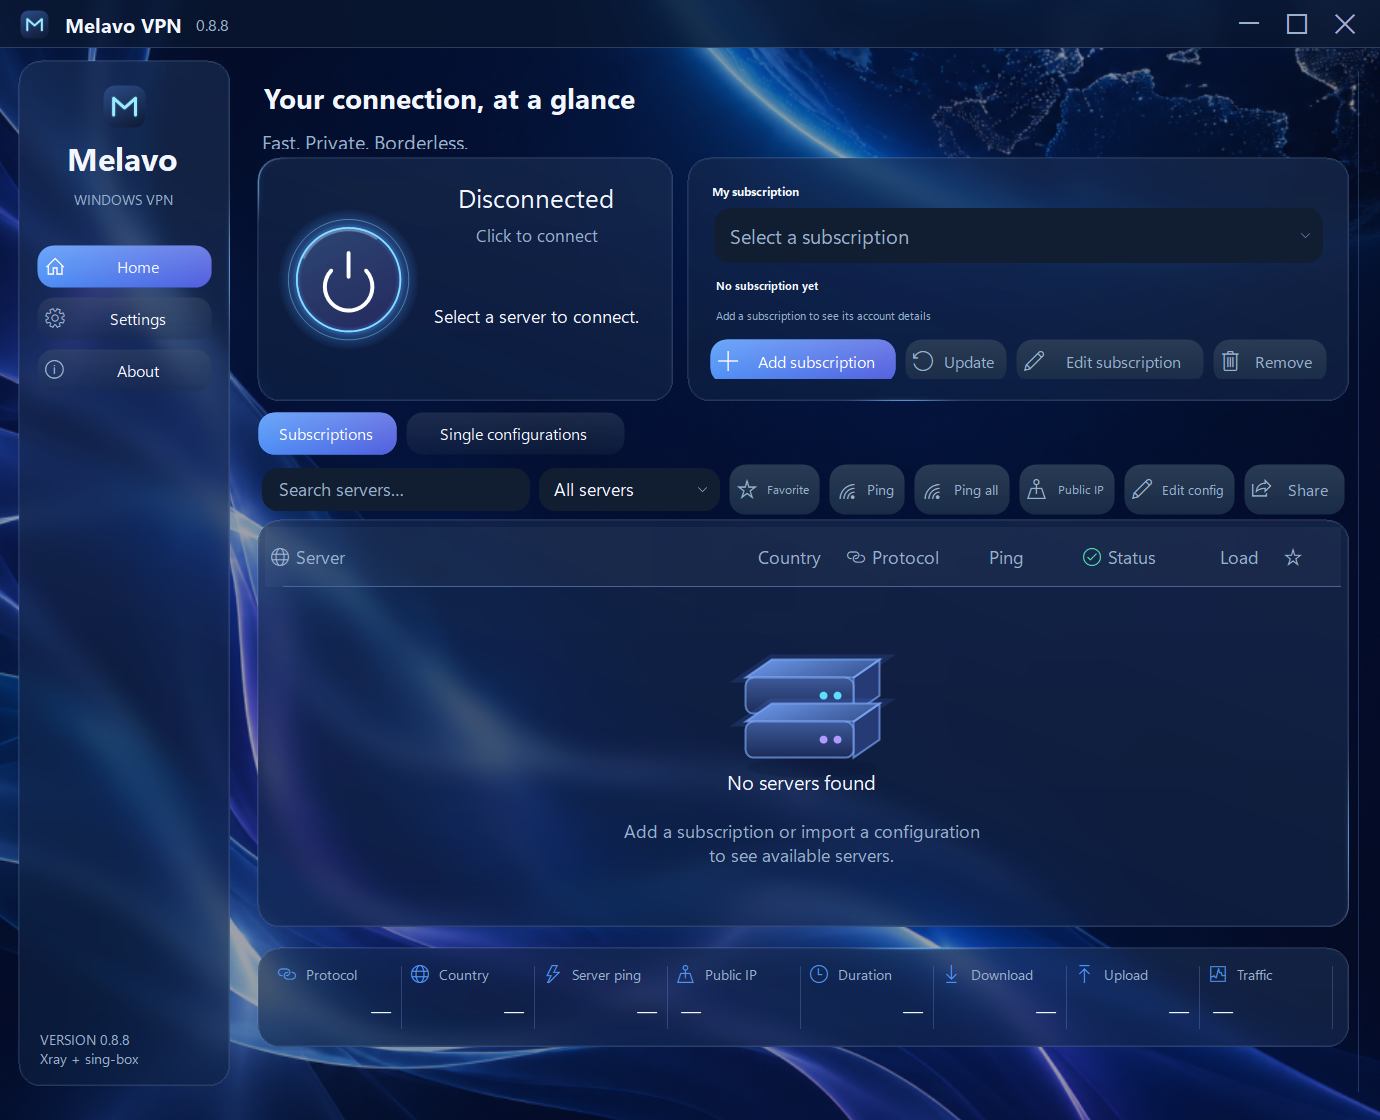
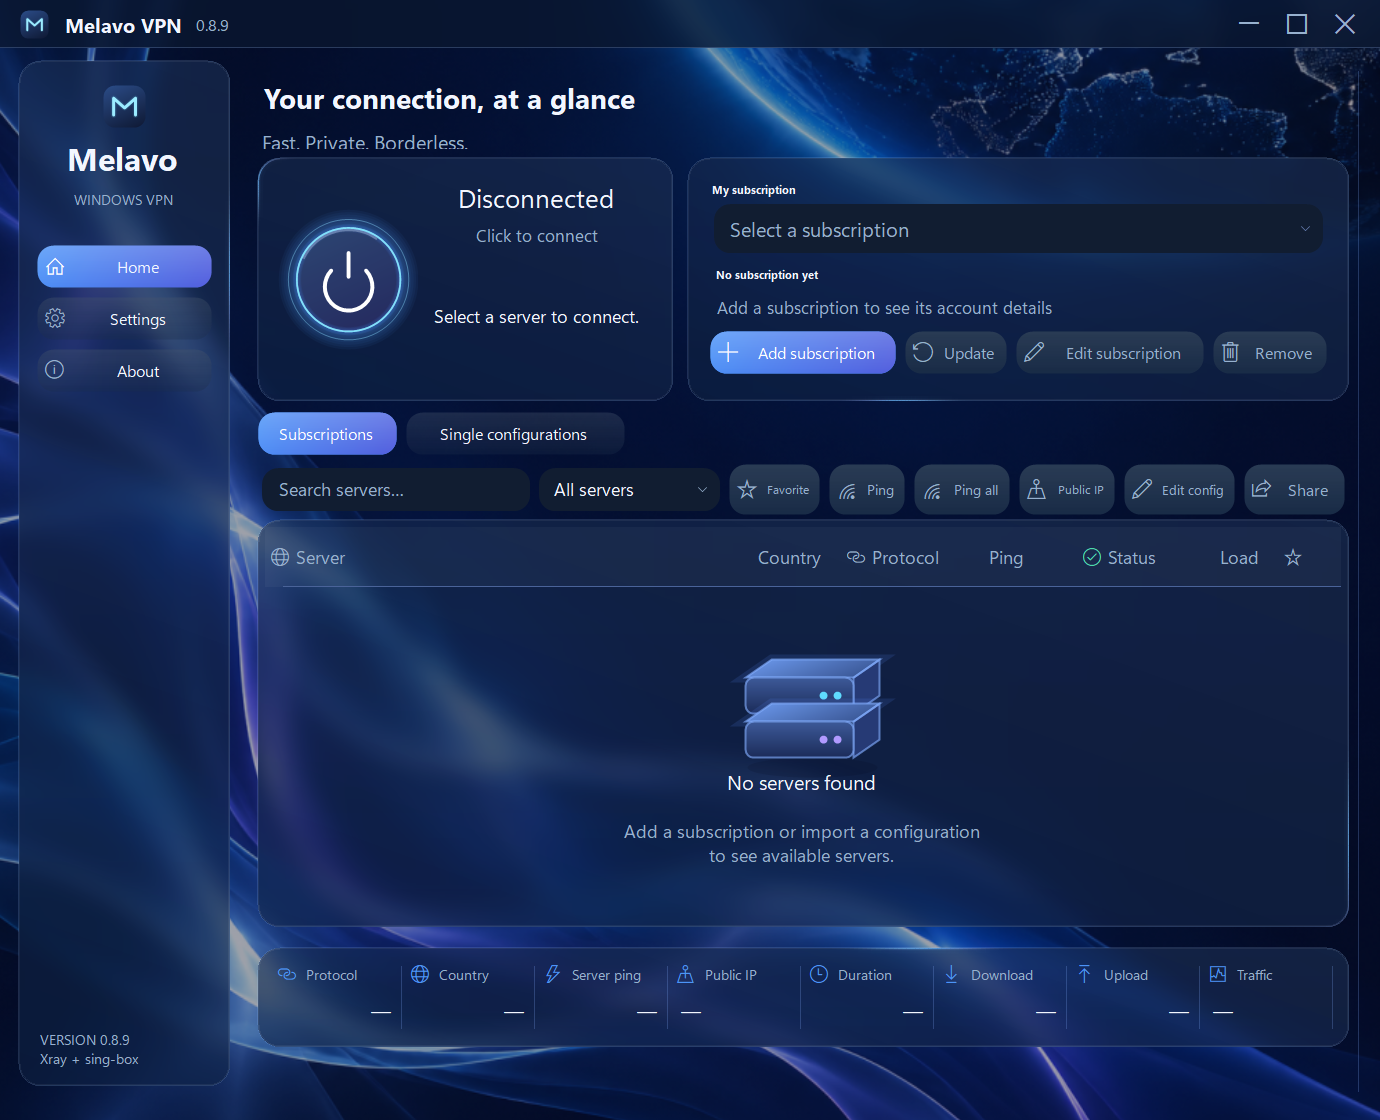
Keep subscription actions within card content bounds

Changed region(s): [[0.4986, 0.1562, 0.9659, 0.3438], [0.7478, 0.9375, 0.779, 0.9688]]

diff --git a/Client.Ui.cs b/Client.Ui.cs
@@ -20,12 +20,12 @@ sealed partial class Client {
  Panel? pageHost;string currentPage="Home";ConnectionState visualState;DateTime? connectedAt;long lastRx,lastTx,totalRx,totalTx;bool sampled,disconnecting;string? activeProfileKey;float animation;DateTime sampleAt;DateTime pageTransition;
  void BuildShell(){
   using(var iconStream=typeof(Client).Assembly.GetManifestResourceStream("MelavoClient.Assets.Melavo.ico")){if(iconStream!=null){Icon=new Icon(iconStream);tray.Icon=Icon;}}
-  Design.Glass=preferences.VisualStyle=="glass";Design.Dark=preferences.Dark;Text="Melavo VPN · 0.8.8"+(SubscriptionStore.Edition=="customer"?" · Customer":"");Font=Design.Font();BackColor=Design.Canvas;ForeColor=Design.Text;RightToLeft=RightToLeft.Yes;Size=new(1380,1120);FormBorderStyle=FormBorderStyle.None;MaximizeBox=true;MinimizeBox=true;StartPosition=FormStartPosition.CenterScreen;
+  Design.Glass=preferences.VisualStyle=="glass";Design.Dark=preferences.Dark;Text="Melavo VPN · 0.8.9"+(SubscriptionStore.Edition=="customer"?" · Customer":"");Font=Design.Font();BackColor=Design.Canvas;ForeColor=Design.Text;RightToLeft=RightToLeft.Yes;Size=new(1380,1120);FormBorderStyle=FormBorderStyle.None;MaximizeBox=true;MinimizeBox=true;StartPosition=FormStartPosition.CenterScreen;
   var shell=new BufferedTable{Dock=DockStyle.Fill,ColumnCount=2,RowCount=1,Padding=new(18,12,18,18),RightToLeft=RightToLeft.No};shell.ColumnStyles.Add(new(SizeType.Percent,100));shell.ColumnStyles.Add(new(SizeType.Absolute,212));Controls.Add(shell);Padding=new(0,48,0,0);titleBar=new WindowTitleBar(this){Dock=DockStyle.None,Bounds=new Rectangle(0,0,ClientSize.Width,48),Anchor=AnchorStyles.Top|AnchorStyles.Left|AnchorStyles.Right};Controls.Add(titleBar);titleBar.BringToFront();
   var sidebar=new Card{RightToLeft=RightToLeft.Yes,Dock=DockStyle.Fill,Padding=new(18,22,18,18),BackColor=Design.Surface};shell.Controls.Add(sidebar,1,0);
   var nav=new BufferedFlow{Dock=DockStyle.Top,AutoSize=true,FlowDirection=FlowDirection.TopDown,WrapContents=false};nav.Controls.Add(new BrandLockup{Margin=new(0,0,0,20)});
   foreach(var item in new[]{("Home","◉  خانه"),("Settings","⚙  تنظیمات"),("About","ⓘ  درباره")}){var button=new ModernButton{Text=item.Item2[3..],IconGlyph=item.Item1 switch{"Home"=>"\uE80F","Servers"=>"\uE774","Subscription"=>"\uE8A5","Statistics"=>"\uE9D9","Settings"=>"\uE713",_=>"\uE946"},Width=176,Height=44,Margin=new(0,8,0,0),AccessibleName=item.Item1,Kind=ButtonKind.Ghost,RightToLeft=RightToLeft.Yes};var key=item.Item1;button.Click+=(_,_)=>Navigate(key);navigation[key]=button;nav.Controls.Add(button);}sidebar.Controls.Add(nav);
-  var foot=Design.Label("VERSION 0.8.8\nXray + sing-box",7,true);foot.Dock=DockStyle.Bottom;foot.Height=46;sidebar.Controls.Add(foot);
+  var foot=Design.Label("VERSION 0.8.9\nXray + sing-box",7,true);foot.Dock=DockStyle.Bottom;foot.Height=46;sidebar.Controls.Add(foot);
   pageHost=new BufferedPanel{RightToLeft=RightToLeft.Yes,Dock=DockStyle.Fill,Padding=new(24,12,10,10)};shell.Controls.Add(pageHost,0,0);
   InitializeServerControls();BuildHome();BuildSettings();BuildAbout();
   var footer=new Panel{Dock=DockStyle.Bottom,Height=40,Padding=new(12,8,12,0)};status.Font=Design.Font(9);status.ForeColor=Design.Muted;footer.Controls.Add(status);pageHost.Controls.Add(footer);footer.BringToFront();
@@ -53,11 +53,11 @@ sealed partial class Client {
   var heading=Design.Label("اتصال امن، با یک انتخاب",12);heading.Dock=DockStyle.Fill;heading.AutoSize=false;heading.TextAlign=ContentAlignment.MiddleLeft;var headingStack=new BufferedTable{Dock=DockStyle.Fill,RowCount=2,Margin=Padding.Empty};headingStack.RowStyles.Add(new(SizeType.Absolute,Math.Max(46,TextRenderer.MeasureText(heading.Text,Design.Font(16,FontStyle.Bold)).Height+10)));headingStack.RowStyles.Add(new(SizeType.Percent,100));heading.Tag=new TextStyle(16,false,FontStyle.Bold);headingStack.Controls.Add(heading,0,0);var tagline=Design.Label("سریع. خصوصی. بدون مرز.",10,true);tagline.Dock=DockStyle.Fill;headingStack.Controls.Add(tagline,0,1);layout.Controls.Add(headingStack,0,0);
   var top=new BufferedTable{Dock=DockStyle.Fill,ColumnCount=2,RowCount=1,Margin=new(0,0,0,10)};top.ColumnStyles.Add(new(SizeType.Absolute,430));top.ColumnStyles.Add(new(SizeType.Percent,100));layout.Controls.Add(top,0,1);
   var hero=new Card{ReflectionDelay=0,Dock=DockStyle.Fill,Padding=new(18),Margin=new(0,0,14,0),Tag="fixed-home"};var center=new BufferedTable{Dock=DockStyle.Fill,ColumnCount=2,RowCount=4};center.ColumnStyles.Add(new(SizeType.Absolute,146));center.ColumnStyles.Add(new(SizeType.Percent,100));foreach(var h in new[]{45,30,38,-1})center.RowStyles.Add(h<0?new(SizeType.Percent,100):new(SizeType.Absolute,h));power.Size=new(144,144);power.Anchor=AnchorStyles.None;stateTitle.Font=Design.Font(14);stateTitle.Tag=new TextStyle(13,false);stateHint.Font=Design.Font(9);stateHint.Tag=new TextStyle(9,true);serverSummary.Font=Design.Font(9);serverSummary.Tag=new TextStyle(9,false);foreach(var label in new[]{stateTitle,stateHint,serverSummary}){label.AutoSize=false;label.Dock=DockStyle.Fill;label.Margin=Padding.Empty;label.TextAlign=ContentAlignment.MiddleCenter;label.AutoEllipsis=true;}center.Controls.Add(power,0,0);center.SetRowSpan(power,4);center.Controls.Add(stateTitle,1,0);center.Controls.Add(stateHint,1,1);center.Controls.Add(serverSummary,1,2);center.SetRowSpan(serverSummary,2);hero.Controls.Add(center);top.Controls.Add(hero,0,0);
-  var account=new Card{ReflectionDelay=2.4,Dock=DockStyle.Fill,Padding=new(22),Margin=Padding.Empty};var form=new BufferedTable{Dock=DockStyle.Fill,ColumnCount=2,RowCount=6};form.ColumnStyles.Add(new(SizeType.Percent,100));form.ColumnStyles.Add(new(SizeType.Absolute,150));foreach(var h in new[]{24,64,30,5,31,56})form.RowStyles.Add(new(SizeType.Absolute,h));
+  var account=new Card{ReflectionDelay=2.4,Dock=DockStyle.Fill,Padding=new(22),Margin=Padding.Empty};var form=new BufferedTable{Dock=DockStyle.Fill,ColumnCount=2,RowCount=6,Margin=Padding.Empty};form.ColumnStyles.Add(new(SizeType.Percent,100));form.ColumnStyles.Add(new(SizeType.Absolute,150));foreach(var h in new[]{20,58,28,5,-1,54})form.RowStyles.Add(h<0?new(SizeType.Percent,100):new(SizeType.Absolute,h));
   var title=Design.Label("اشتراک من",12);title.AutoSize=false;title.Margin=Padding.Empty;title.Dock=DockStyle.Fill;form.Controls.Add(title,0,0);form.SetColumnSpan(title,2);groups.Dock=DockStyle.Fill;form.Controls.Add(groups,0,1);form.SetColumnSpan(groups,2);
   accountUsage.Tag=new TextStyle(11,false,FontStyle.Bold);accountUsage.Font=Design.Font(10);accountUsage.Dock=DockStyle.Fill;accountUsage.AutoSize=false;accountUsage.AutoEllipsis=true;accountUsage.Margin=new(4,7,4,0);form.Controls.Add(accountUsage,0,2);form.SetColumnSpan(accountUsage,2);
-  accountProgress.Dock=DockStyle.Fill;accountProgress.Margin=new(4,0,4,0);form.Controls.Add(accountProgress,0,3);form.SetColumnSpan(accountProgress,2);accountExpiry.Dock=DockStyle.Fill;accountExpiry.AutoSize=false;accountExpiry.AutoEllipsis=true;accountExpiry.Margin=new(4,4,4,8);form.Controls.Add(accountExpiry,0,4);form.SetColumnSpan(accountExpiry,2);
-  manageSubscription.IconGlyph="\uE710";refresh.IconGlyph="\uE777";editSubscription.IconGlyph="\uE70F";deleteSubscription.IconGlyph="\uE74D";var manage=manageSubscription;manage.Click+=(_,_)=>{if(singleConfigScope)ShowSingleConfigDialog();else ShowSubscriptionDialog();};StyleExisting(refresh);refresh.Width=110;refresh.Text="آپدیت";manage.Width=192;editSubscription.Width=188;editSubscription.Click+=(_,_)=>ShowEditSubscriptionDialog();deleteSubscription.Width=118;deleteSubscription.Click+=(_,_)=>DeleteSubscription();var actions=new BufferedTable{Dock=DockStyle.Fill,ColumnCount=4,RowCount=1,Margin=Padding.Empty};foreach(var weight in new[]{31f,18f,32f,19f})actions.ColumnStyles.Add(new(SizeType.Percent,weight));var actionButtons=new[]{manage,refresh,editSubscription,deleteSubscription};for(int i=0;i<actionButtons.Length;i++){var button=actionButtons[i];button.Dock=DockStyle.Fill;button.Margin=new(i==0?0:4,5,i==3?0:4,5);button.Dock=DockStyle.Fill;button.Height=44;actions.Controls.Add(button,i,0);}form.Controls.Add(actions,0,5);form.SetColumnSpan(actions,2);account.Controls.Add(form);top.Controls.Add(account,1,0);
+  accountProgress.Dock=DockStyle.Fill;accountProgress.Margin=new(4,0,4,0);form.Controls.Add(accountProgress,0,3);form.SetColumnSpan(accountProgress,2);accountExpiry.Dock=DockStyle.Fill;accountExpiry.AutoSize=false;accountExpiry.AutoEllipsis=true;accountExpiry.Margin=new(4,2,4,2);form.Controls.Add(accountExpiry,0,4);form.SetColumnSpan(accountExpiry,2);
+  manageSubscription.IconGlyph="\uE710";refresh.IconGlyph="\uE777";editSubscription.IconGlyph="\uE70F";deleteSubscription.IconGlyph="\uE74D";var manage=manageSubscription;manage.Click+=(_,_)=>{if(singleConfigScope)ShowSingleConfigDialog();else ShowSubscriptionDialog();};StyleExisting(refresh);refresh.Width=110;refresh.Text="آپدیت";manage.Width=192;editSubscription.Width=188;editSubscription.Click+=(_,_)=>ShowEditSubscriptionDialog();deleteSubscription.Width=118;deleteSubscription.Click+=(_,_)=>DeleteSubscription();var actions=new BufferedTable{Dock=DockStyle.Fill,ColumnCount=4,RowCount=1,Margin=Padding.Empty};actions.RowStyles.Add(new(SizeType.Percent,100));foreach(var weight in new[]{31f,18f,32f,19f})actions.ColumnStyles.Add(new(SizeType.Percent,weight));var actionButtons=new[]{manage,refresh,editSubscription,deleteSubscription};for(int i=0;i<actionButtons.Length;i++){var button=actionButtons[i];button.AutoSize=false;button.Dock=DockStyle.Fill;button.Margin=new(i==0?0:4,5,i==3?0:4,5);button.Dock=DockStyle.Fill;button.Height=44;actions.Controls.Add(button,i,0);}form.Controls.Add(actions,0,5);form.SetColumnSpan(actions,2);account.Controls.Add(form);top.Controls.Add(account,1,0);
   var scope=new BufferedFlow{Dock=DockStyle.Fill,FlowDirection=FlowDirection.LeftToRight,WrapContents=false,Margin=Padding.Empty};subscriptionsTab.Width=140;singleConfigsTab.Width=220;foreach(var tab in new[]{subscriptionsTab,singleConfigsTab}){tab.Height=44;tab.Margin=new(0,0,8,0);scope.Controls.Add(tab);}layout.Controls.Add(scope,0,2);
   var toolbar=new BufferedTable{Dock=DockStyle.Fill,ColumnCount=8,RowCount=1,Margin=Padding.Empty};toolbar.ColumnStyles.Add(new(SizeType.Percent,100));foreach(var w in new[]{190,100,85,105,105,120,110})toolbar.ColumnStyles.Add(new(SizeType.Absolute,w));search.Font=filter.Font=Design.Font(9);search.Dock=DockStyle.Fill;filter.Dock=DockStyle.Fill;var favorite=Action("محبوب",120);favorite.IconGlyph="\uE734";favorite.Click+=(_,_)=>ToggleFavorite();var ping=Action("پینگ",105);ping.IconGlyph="\uE701";ping.AccessibleDescription=L("ICMP round-trip time to the server","زمان رفت و برگشت ICMP به سرور");ping.Click+=async(_,_)=>await CheckLatency();var pingAll=Action("پینگ همه",110);pingAll.IconGlyph="\uE701";pingAll.Click+=async(_,_)=>await CheckLatency(true);var ip=Action("IP خروجی",105);ip.Width=125;ip.IconGlyph="\uE707";ip.Click+=async(_,_)=>await RefreshIp();favoriteAction=favorite;pingAction=ping;pingAllAction=pingAll;publicIpAction=ip;foreach(var button in new[]{favorite,ping,pingAll,ip,editConfig,shareConfig}){button.Dock=DockStyle.Fill;button.Height=44;button.Margin=new(4,0,4,0);}toolbar.Controls.Add(search,0,0);toolbar.Controls.Add(filter,1,0);toolbar.Controls.Add(favorite,2,0);toolbar.Controls.Add(ping,3,0);toolbar.Controls.Add(pingAll,4,0);toolbar.Controls.Add(ip,5,0);editConfig.IconGlyph="\uE70F";shareConfig.IconGlyph="\uE72D";editConfig.Width=125;editConfig.Click+=async(_,_)=>await ShowConfigEditor();toolbar.Controls.Add(editConfig,6,0);shareConfig.Width=140;toolbar.Controls.Add(shareConfig,7,0);layout.Controls.Add(toolbar,0,3);
   var serverCard=new Card{ReflectionDelay=5.2,Dock=DockStyle.Fill,Padding=new(8),Margin=new(0,4,0,8)};serverCard.Controls.Add(servers);layout.Controls.Add(serverCard,0,4);
@@ -68,7 +68,7 @@ sealed partial class Client {
   void AdaptHome(){bool compact=home.Width<1060||home.Height<860;if(compactLayout==compact)return;compactLayout=compact;layout.SuspendLayout();toolbar.SuspendLayout();
    layout.Padding=new(0,0,0,compact?0:42);layout.RowStyles[0].Height=82;layout.RowStyles[1].Height=compact?222:254;layout.RowStyles[2].Height=compact?46:52;layout.RowStyles[3].Height=compact?96:52;layout.RowStyles[5].Height=compact?88:112;
    statistics.Padding=compact?new(14,4,14,4):new(14,9,14,9);top.ColumnStyles[0].Width=compact?350:430;account.Padding=new(compact?15:22);
-   int[] accountRows=compact?new[]{18,58,26,5,24,48}:new[]{24,64,30,5,31,56};for(int i=0;i<accountRows.Length;i++)form.RowStyles[i].Height=accountRows[i];
+   int[] accountRows=compact?new[]{18,58,26,5,100,48}:new[]{20,58,28,5,100,54};for(int i=0;i<accountRows.Length;i++)form.RowStyles[i].Height=accountRows[i];
    toolbar.ColumnStyles.Clear();toolbar.RowStyles.Clear();toolbar.ColumnCount=compact?12:8;toolbar.RowCount=compact?2:1;
    if(compact){for(int col=0;col<12;col++)toolbar.ColumnStyles.Add(new(SizeType.Percent,100f/12));toolbar.RowStyles.Add(new(SizeType.Percent,50));toolbar.RowStyles.Add(new(SizeType.Percent,50));toolbar.SetCellPosition(search,new(0,0));toolbar.SetColumnSpan(search,7);toolbar.SetCellPosition(filter,new(7,0));toolbar.SetColumnSpan(filter,5);int i=0;foreach(var button in new[]{favorite,ping,pingAll,ip,editConfig,shareConfig}){toolbar.SetCellPosition(button,new(i*2,1));toolbar.SetColumnSpan(button,2);i++;}}
    else{toolbar.ColumnStyles.Add(new(SizeType.Percent,100));foreach(var w in new[]{190,100,85,105,105,120,110})toolbar.ColumnStyles.Add(new(SizeType.Absolute,w));int i=0;foreach(Control control in new Control[]{search,filter,favorite,ping,pingAll,ip,editConfig,shareConfig}){toolbar.SetColumnSpan(control,1);toolbar.SetCellPosition(control,new(i++,0));}}

diff --git a/UpdateService.cs b/UpdateService.cs
@@ -7,10 +7,10 @@ namespace MelavoClient;
 sealed record CoreRelease(string Version,string Url,string Sha256);
 sealed record PackagePlan(string Version,string Stage,string[] Files,Dictionary<string,string> Hashes);
 static partial class UpdateService {
- public const string AppVersion="0.8.8";
+ public const string AppVersion="0.8.9";
  public static string TempRoot=>Path.Combine(SubscriptionStore.DirectoryPath,"updates");
  public static string NewStage(){var path=Path.Combine(TempRoot,Guid.NewGuid().ToString("N"));Directory.CreateDirectory(path);return path;}
- static HttpClient Http(){var http=new HttpClient{Timeout=TimeSpan.FromMinutes(3)};http.DefaultRequestHeaders.UserAgent.ParseAdd("MelavoClient/0.8.8");return http;}
+ static HttpClient Http(){var http=new HttpClient{Timeout=TimeSpan.FromMinutes(3)};http.DefaultRequestHeaders.UserAgent.ParseAdd("MelavoClient/0.8.9");return http;}
  public static async Task<CoreRelease> LatestCore(){using var http=Http();var json=JsonNode.Parse(await http.GetStringAsync("https://api.github.com/repos/XTLS/Xray-core/releases/latest"))!;var asset=json["assets"]!.AsArray().FirstOrDefault(a=>a?["name"]?.ToString()=="Xray-windows-64.zip")??throw new Exception("فایل ویندوز در انتشار رسمی موجود نیست.");var url=asset["browser_download_url"]!.ToString();var digest=asset["digest"]?.ToString()??"";if(!url.StartsWith("https://github.com/XTLS/Xray-core/releases/download/",StringComparison.OrdinalIgnoreCase)||!digest.StartsWith("sha256:")||digest.Length!=71)throw new Exception("اطلاعات تأیید دانلود رسمی کامل نیست.");return new(json["tag_name"]!.ToString().TrimStart('v'),url,digest[7..]);}
  public static async Task<string> DownloadCore(CoreRelease release,IProgress<int> progress){var stage=NewStage();try{var archive=Path.Combine(stage,"download.zip");using var http=Http();using var response=await http.GetAsync(release.Url,HttpCompletionOption.ResponseHeadersRead);response.EnsureSuccessStatusCode();using(var input=await response.Content.ReadAsStreamAsync())using(var output=File.Create(archive)){var buffer=new byte[65536];long total=0;int read;using var timeout=new CancellationTokenSource(TimeSpan.FromMinutes(3));while((read=await input.ReadAsync(buffer,timeout.Token))>0){total+=read;if(total>150_000_000)throw new Exception("اندازهٔ دانلود غیرمنتظره است.");await output.WriteAsync(buffer.AsMemory(0,read),timeout.Token);if(response.Content.Headers.ContentLength is long length&&length>0)progress.Report((int)(total*100/length));}}
   using var lockedArchive=new FileStream(archive,FileMode.Open,FileAccess.Read,FileShare.Read);if(!Convert.ToHexString(SHA256.HashData(lockedArchive)).Equals(release.Sha256,StringComparison.OrdinalIgnoreCase))throw new Exception("SHA256 دانلود با انتشار رسمی مطابقت ندارد.");var core=Path.Combine(stage,"core");Directory.CreateDirectory(core);lockedArchive.Position=0;using var zip=new ZipArchive(lockedArchive,ZipArchiveMode.Read,true);var verifiedHashes=new Dictionary<string,string>(StringComparer.OrdinalIgnoreCase);var allowed=new HashSet<string>(new[]{"xray.exe","libcronet.dll","geoip.dat","geosite.dat","LICENSE"},StringComparer.OrdinalIgnoreCase);foreach(var entry in zip.Entries){var relative=Relative(entry.FullName);if(entry.Name.Length==0)continue;if(relative.Contains('/')||!allowed.Contains(relative))continue;if(entry.Length>80_000_000)throw new Exception("فایل استخراجشده بیش از حد بزرگ است.");var name=relative.Equals("LICENSE",StringComparison.OrdinalIgnoreCase)?"LICENSE-Xray.txt":relative;if(Path.GetExtension(name) is ".exe" or ".dll"){using var trustedEntry=entry.Open();verifiedHashes[name]=Convert.ToHexString(SHA256.HashData(trustedEntry)).ToLowerInvariant();}entry.ExtractToFile(Path.Combine(core,name),true);}ValidateExe(Path.Combine(core,"xray.exe"));CoreSecurity.ApproveCandidate(core,verifiedHashes);return core;}catch{CleanupStage(stage);throw;}

diff --git a/Client.UiChecks.cs b/Client.UiChecks.cs
@@ -1,5 +1,21 @@
 namespace MelavoClient;
 sealed partial class Client {
+
+ static void CheckSubscriptionActionBounds(Client client,Action<bool,string> assert){
+  client.Opacity=0;client.ShowInTaskbar=false;client.Show();client.Navigate("Home");Application.DoEvents();
+  foreach(var language in new[]{"en","fa"})foreach(var size in new[]{new Size(1380,1120),new Size(1240,780),new Size(1380,780)}){
+   client.preferences.Language=language;client.ApplyLanguage();client.Size=size;client.PerformLayout();Application.DoEvents();
+   foreach(var button in new[]{client.manageSubscription,client.refresh,client.editSubscription,client.deleteSubscription}){
+    var bounds=button.RectangleToScreen(button.ClientRectangle);
+    for(Control? parent=button.Parent;parent!=null&&parent is not Client;parent=parent.Parent){
+     var interior=new Rectangle(parent.Padding.Left,parent.Padding.Top,parent.ClientSize.Width-parent.Padding.Horizontal,parent.ClientSize.Height-parent.Padding.Vertical);
+     assert(parent.RectangleToScreen(interior).Contains(bounds),$"subscription action {button.Text} stays inside {parent.GetType().Name} at {size.Width}x{size.Height} ({language}): button={bounds}; parent={parent.RectangleToScreen(interior)}");
+    }
+    assert(button.Height>=36,"subscription action keeps usable height");
+   }
+  }
+  client.preferences.Language="en";client.ApplyLanguage();client.Size=new(1380,1120);
+ }
  static void CheckConfigurationMenu(Action<bool,string> assert){
   void Pump(int ms){var clock=System.Diagnostics.Stopwatch.StartNew();while(clock.ElapsedMilliseconds<ms){Application.DoEvents();Thread.Sleep(5);}}
   using var host=new Form{ShowInTaskbar=false,Size=new(500,500)};host.Show();using var menu=new ConfigurationMenu();int invoked=0;foreach(var glyph in new[]{"\uE72D","\uE70F","\uE74D","\uE9D9","\uE768"})menu.AddAction(glyph,()=>invoked++);
@@ -49,6 +65,7 @@ sealed partial class Client {
   Assert(TextRenderer.MeasureText("All servers",client.filter.Font).Width+46<=client.filter.Width,"minimum window filter caption fits");
   Assert(TextRenderer.MeasureText(client.search.PlaceholderText,client.search.Font).Width+24<=client.search.Width,"minimum window search hint fits");
   using(var edit=client.CreateEditSubscriptionDialog(client.subscriptions.First(IsSubscription))){edit.Show(client);Application.DoEvents();var save=edit.Controls[0].Controls.OfType<ModernButton>().Single();Assert(save.Height<=44&&save.Height>=34,"edit subscription save has standard height");edit.Close();}
+  CheckSubscriptionActionBounds(client,Assert);
   client.job.Dispose();File.WriteAllText(Path.Combine(AppContext.BaseDirectory,"ui-checks.txt"),"PASS: navigation, search, favorites, active-server dashboard, enabled connected/connecting browsing, scroll preservation with 100 rows, upward/downward scroll, continuous traffic colors (1000 steps) in both themes, custom controls, English/Persian directions, smooth fractional scroll, stable active name, input geometry, connection/error states, account metadata, light/dark palettes. Preview fixtures only; no network or real subscription writes.");return 0;
  }
 }

diff --git a/Client.Updates.cs b/Client.Updates.cs
@@ -3,7 +3,7 @@ namespace MelavoClient;
 sealed partial class Client {
  readonly ModernButton updateCore=new(){Text="آپدیت Xray",Width=170},updateApplication=new(){Text="آپدیت برنامه از ZIP",Width=220};
  readonly Label updateStatus=Design.Label("Xray از GitHub رسمی؛ برنامه از فایل نسخهٔ جدید",10,true);
- readonly Label installedInfo=Design.Label("Melavo 0.8.8\nXray / sing-box\nWindows 10 / 11 · x64\nEncrypted storage · Windows DPAPI",12);
+ readonly Label installedInfo=Design.Label("Melavo 0.8.9\nXray / sing-box\nWindows 10 / 11 · x64\nEncrypted storage · Windows DPAPI",12);
  async Task LoadInstalledInfo(){if(preview)return;try{var x=await Task.Run(()=>UpdateService.CoreVersion(Core("xray.exe")));var s=await Task.Run(()=>UpdateService.CoreVersion(Core("sing-box.exe")));if(!IsDisposed)installedInfo.Text="Melavo "+UpdateService.AppVersion+"\n"+string.Join(" ",x.Split(' ',StringSplitOptions.RemoveEmptyEntries).Take(2))+"\n"+s+"\nWindows 10 / 11 · x64";}catch{}}
  void BuildUpdateCard(Panel stack){checkAppUpdate.Text=L("Check for updates","بررسی بهروزرسانی");updateStatus.Text=L("Automatic updates from GitHub; local ZIP updates are also supported.","دریافت خودکار نسخهٔ جدید از گیتهاب؛ نصب از ZIP هم امکانپذیر است.");var card=AddCard(stack,210);var column=new FlowLayoutPanel{Dock=DockStyle.Fill,FlowDirection=FlowDirection.TopDown,WrapContents=false};column.Controls.Add(Design.Label("بهروزرسانی",13));var buttons=new FlowLayoutPanel{Height=45,Width=760};buttons.Controls.AddRange(new Control[]{checkAppUpdate,updateCore,updateApplication});column.Controls.Add(buttons);updateStatus.MaximumSize=new(700,0);column.Controls.Add(updateStatus);card.Controls.Add(column);updateCore.Click+=async(_,_)=>await UpdateXray();updateApplication.Click+=async(_,_)=>await UpdateProgram();}
  bool CanUpdate(){if(preview){updateStatus.Text=L("Updates are unavailable in offline preview.","بهروزرسانی در پیشنمایش آفلاین انجام نمیشود.");return false;}if(busy||updating||pingTesting||xray!=null||downloadingApp){updateStatus.Text=L("Disconnect before updating.","برای بهروزرسانی، اتصال را قطع کنید.");return false;}return true;}

diff --git a/README.md b/README.md
@@ -2,7 +2,7 @@
 
 A modern Windows VPN client with a clean interface and support for Xray and sing-box. Available in English and Persian.
 
-[Download for Windows](https://github.com/sirvan1133/MelavoClient/releases/download/v0.8.8/Melavo-VPN-0.8.8-Windows-x64.zip)
+[Download for Windows](https://github.com/sirvan1133/MelavoClient/releases/download/v0.8.9/Melavo-VPN-0.8.9-Windows-x64.zip)
 
 ## فارسی
 
